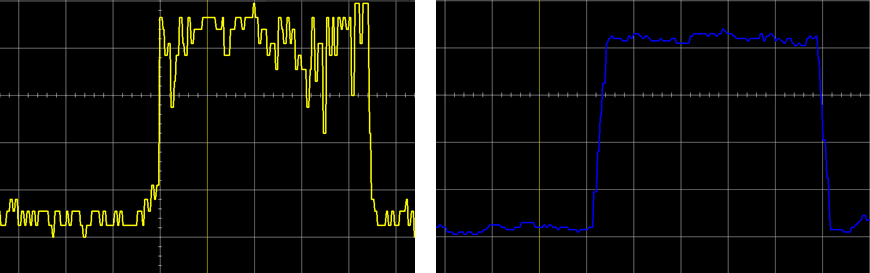
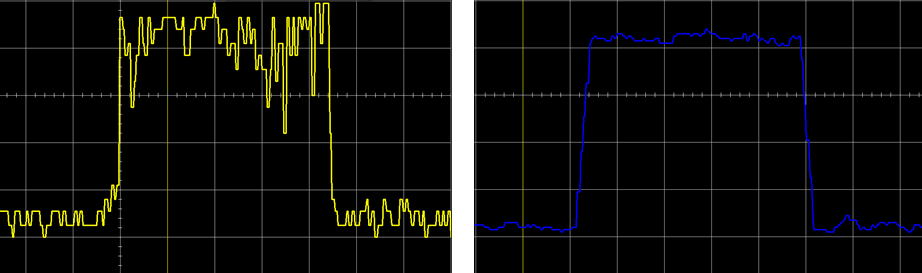
- finished subsubsection ION Motion Driver

diff --git a/Kapitel/6_Umsetzung/6.2_Softwarestruktur.tex b/Kapitel/6_Umsetzung/6.2_Softwarestruktur.tex
@@ -172,17 +172,20 @@ Aufgrund der unterschiedlichen Menge an Datenbytes ist es schwierig eine generis
 	\label{fig:ION_Methoden}
 \end{figure}
 
-Auf Basis dieser vier Methoden wurde die Ansteuerung der Motoren für die Vereinzelung und die Verstellmechanik implementiert.
-
+Auf Basis dieser vier Methoden wurde die Ansteuerung der Motoren für die Vereinzelung und die Verstellmechanik implementiert. Die beiden Prozesse sind in den Kapiteln Vereinzelung (\ref{sec:Vereinzelung}) und Verstellmechanik (\ref{verstellmechanik}) systematisch beschrieben. Die genaue Implementierung der vier Methoden kann im ION\_Motion\_Driver.c File im Anhang nachgeschlagen werden. Im folgenden Absatz wird noch kurz auf die Auswertung der mit dem Motorcontroller gemessen Motorstromwerte eingegangen.\newline
+Für die Initialisierung der Verstellmechanik wird der Motor langsam in eine Richtung gedreht bis die Welle an den mechanischen Anschlag läuft. In diesem Moment steigt der Strom durch den Motor aufgrund der erhöhten Last stark an. Dieser Anstieg wird über die Auswertung der Stromwerte detektiert. Im konkreten Fall wird in der Software ein Schwellwert für die Stromstärke definiert, bei welchem der Motor angehalten soll. Um die Fluktuationen der gemessenen Stromwerte zu glätten wird ein Mittelwert über die letzten X Werte gebildet.
 
 
 \begin{figure}[H]
 	\includegraphics[width=1\textwidth]{Illustrationen/6-Umsetzung/ION_Motion_Strommessung.png}
-	\caption{Software, ION Motion Driver Motorstrom}
+	\caption{Software, Glättung des Motorstroms}
 	\label{fig:ION_Motion_Strommessung}
 \end{figure}
 
-Die Stromkurve ist als qualitative Angabe zu verstehen, der Fokus liegt auf der Glättung der Messwerte.
+In Abbildung \ref{fig:ION_Motion_Strommessung} ist der Stromverlauf des Pololu Getriebemotors mit Übersetzung 378:1 abgebildet. Der Motor wurde im Leerlauf ohne Last betrieben, mit einer konstanten Last gebremst und anschliessend wieder entlastet. Dabei wurde der Motor mit einem geringen PWM Tastgrad betrieben um keinen zu grossen Laststrom zu generieren.\\
+Auf den beiden Graphen ist ein deutlicher Stromanstieg zu erkennen. Der linke Graph zeigt dabei die gemessenen Stromwerte, der rechte die Mittelwerte der letzten 5 Messwerte. Der Vorteil der Mittelwertbildung kommt vor allem bei einer konstanten Belastung des Motors zum Vorschein, da hier die gemessenen Stromwerte stark fluktuieren und keine akkurate Messung zulassen. Die Stromkurven sind als qualitative Angaben zu verstehen, der Fokus liegt auf der Glättung der Messwerte.
+
+
 
 \subsubsection{IR Sensor Driver}
 

diff --git a/Kapitel/6_Umsetzung/6.1_Mainboard_PCB.tex b/Kapitel/6_Umsetzung/6.1_Mainboard_PCB.tex
@@ -133,7 +133,7 @@ Bei einem getakteten Spannungswandler sollte das Layout gemäss den Design Richt
 Das HMI bildet die Schnittstelle zwischen Operator und Planting Robot. Der Planting Robot soll so einfach wie möglich zu bedienen sein. Auf ein Touchscreen Interface oder Displays mit Menüführung durch Taster wird daher bewusst verzichtet. Stattdessen werden Taster mit blau, grün und weisser LED-Ring Beleuchtung (siehe Abb. \ref{fig:Taster_LED-Ring}) verwendet. Die Funktionen des Planting Robots werden dabei durch korrespondierende Taster realisiert. Die Funktionen des HMI werden in Kapitel \ref{sec:HMI} erklärt.
 \begin{figure}[H]
 	\includegraphics[width=0.9\textwidth]{Illustrationen/6-Umsetzung/HMI_LED_Taster.png}
-	\caption{HMI Taster mit LED Ring\protect\cite{HMI_Taster}}
+	\caption{HMI Taster mit LED Ring \protect\cite{HMI_Taster}}
 	\label{fig:Taster_LED-Ring}
 \end{figure}
 
